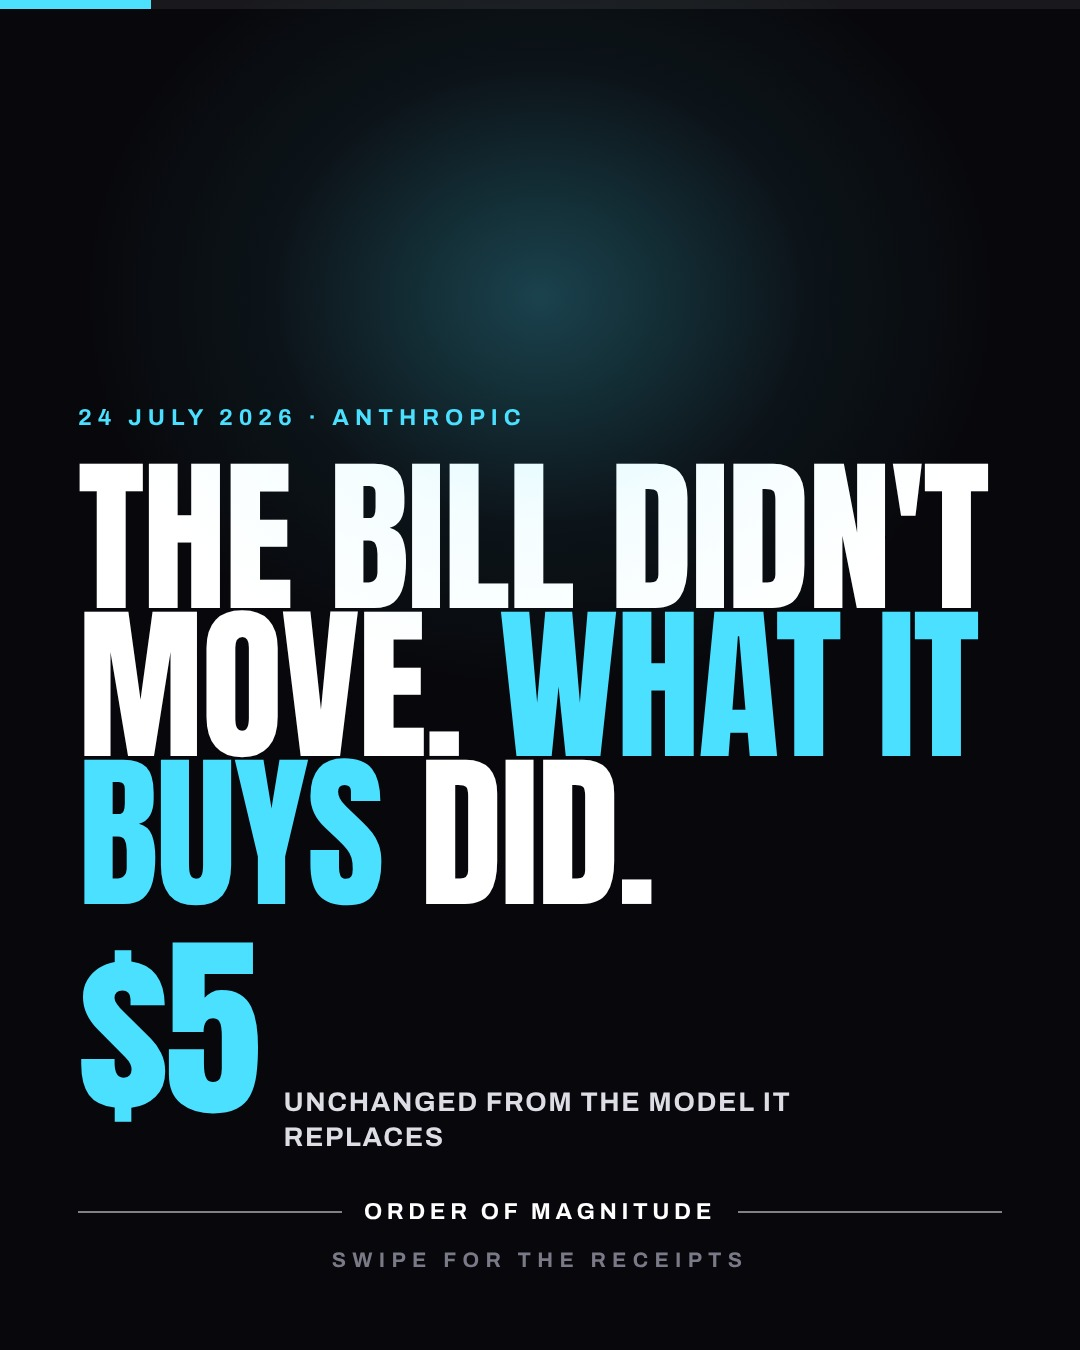
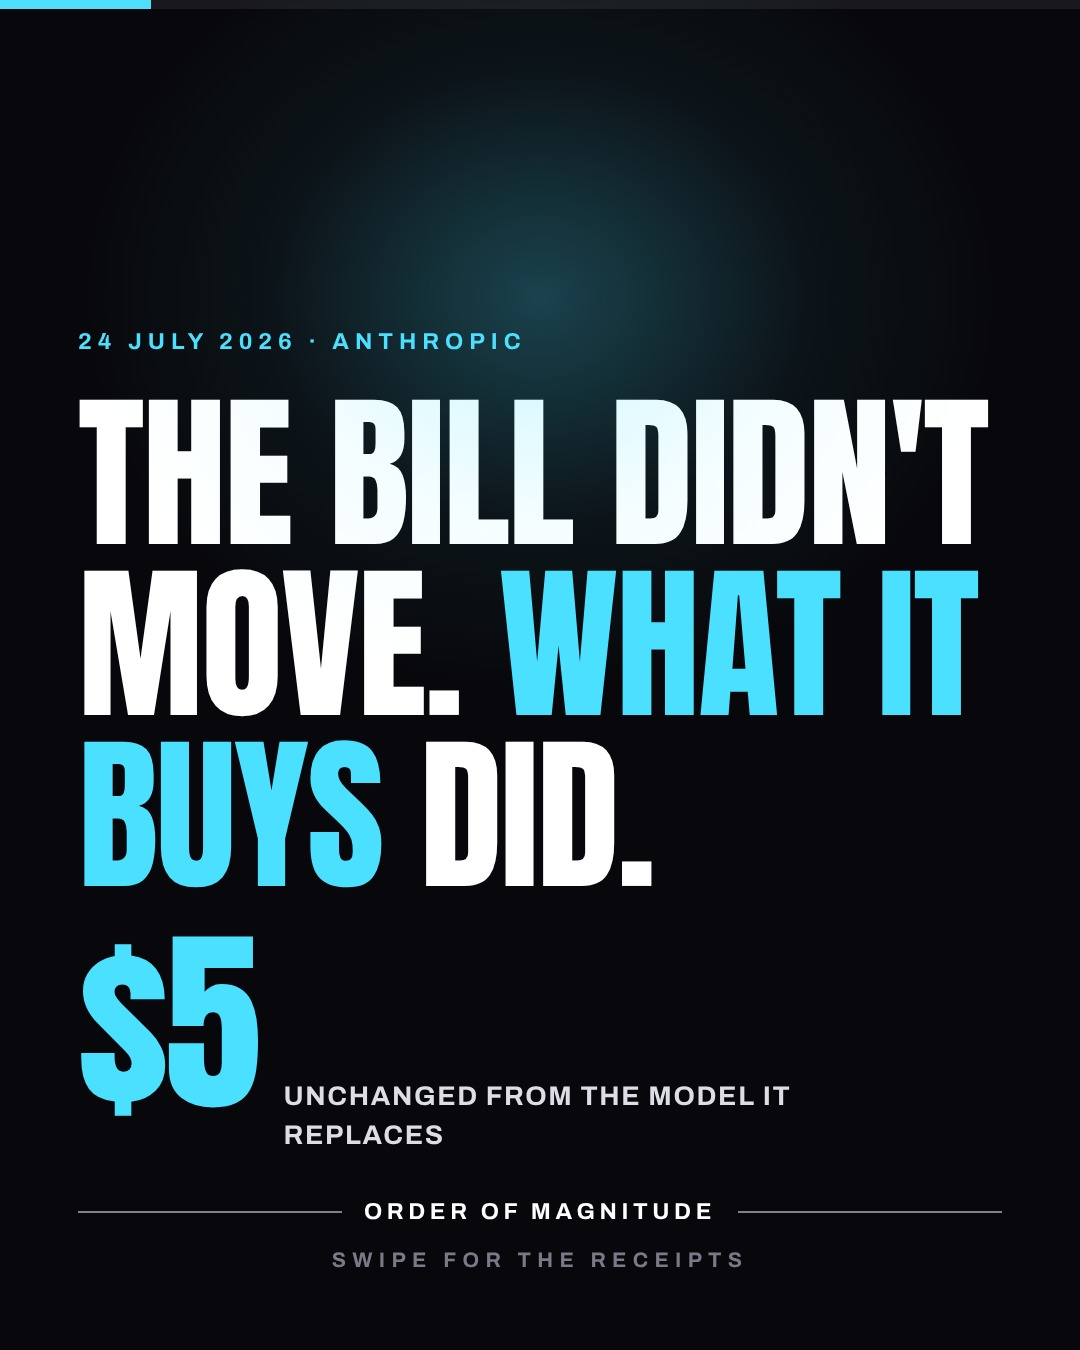
Loosen line spacing, and ban dashes as punctuation
Two corrections from review of the rendered slides.

Line spacing was set for a poster read at arm's length, not a phone held at
30cm: body copy at 1.3 and display at 0.88 packed the lines so tightly that
wrapped text read as a block rather than as sentences. Body and stat copy now
sit at 1.5, quotes at 1.34, contrast cells at 1.42, and display headlines at
1.02 so a three-line hook has air between its lines.

Em dashes, en dashes and "--" are now a hard validation error in every rendered
field and in the caption. An em dash is usually a sentence whose punctuation was
never decided, and on a slide the glyph is a long grey bar that breaks the line
rhythm. Evidence quotes are exempt, since those must stay verbatim.

The rule immediately earned itself: it rejected an em dash I had left in the
quote attribution while writing the very commit that introduced the rule. A
second one was hiding in the template rather than the content, ahead of the
attribution line, where no content check could ever have seen it; that is now a
short accent rule instead of a glyph.

Changed region(s): [[0.0611, 0.2489, 0.9167, 0.8711], [0.3972, 0.6222, 0.6111, 0.6844], [0.7944, 0.5289, 0.9167, 0.56]]

diff --git a/prompts/routine.md b/prompts/routine.md
@@ -178,6 +178,12 @@ million words", which is simply false and would be quoted back at us.
 Ask of every simplification: if the author of the source read this slide, would
 they say "yes, that is what I meant"? If they would wince, rewrite it.
 
+**No em dashes, en dashes, or "--".** Not in a slide, not in the caption. An em
+dash is usually a sentence whose punctuation was never decided; two shorter
+sentences read better and, on a slide, the glyph is a long grey bar that breaks
+the line rhythm. `validate.mjs` rejects them, so this is not a preference you can
+quietly skip.
+
 **The test, applied to the finished hook:** would someone who does not work in
 technology send this to a friend? If the honest answer is no, the story may
 still be right and the framing is wrong. Rewrite the framing, never the facts.
